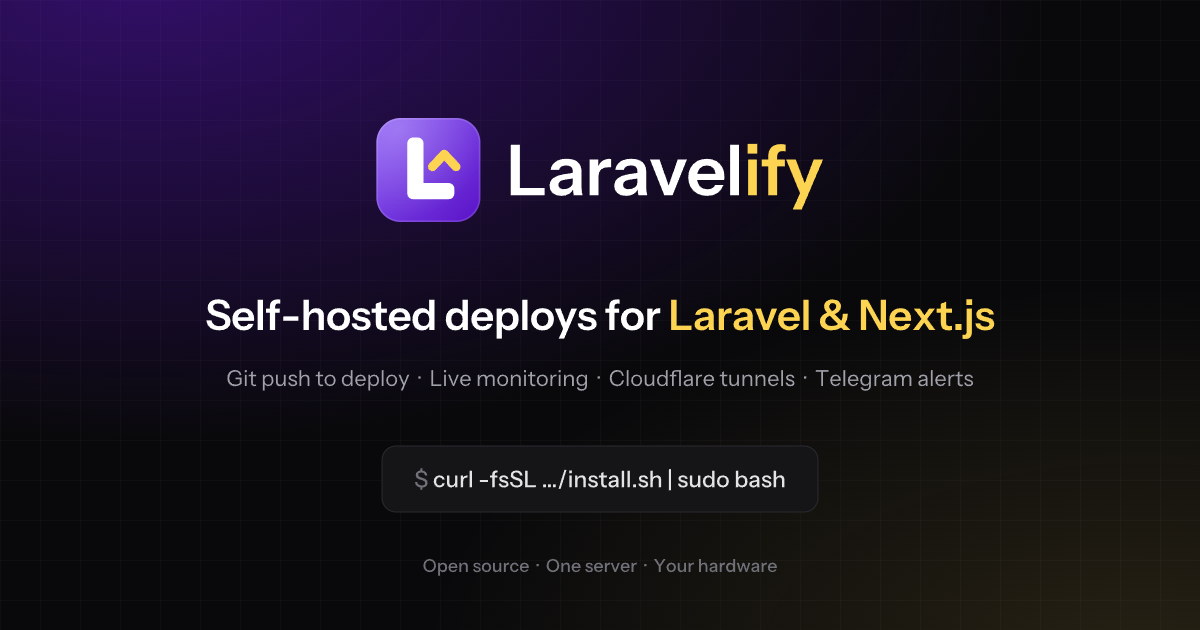
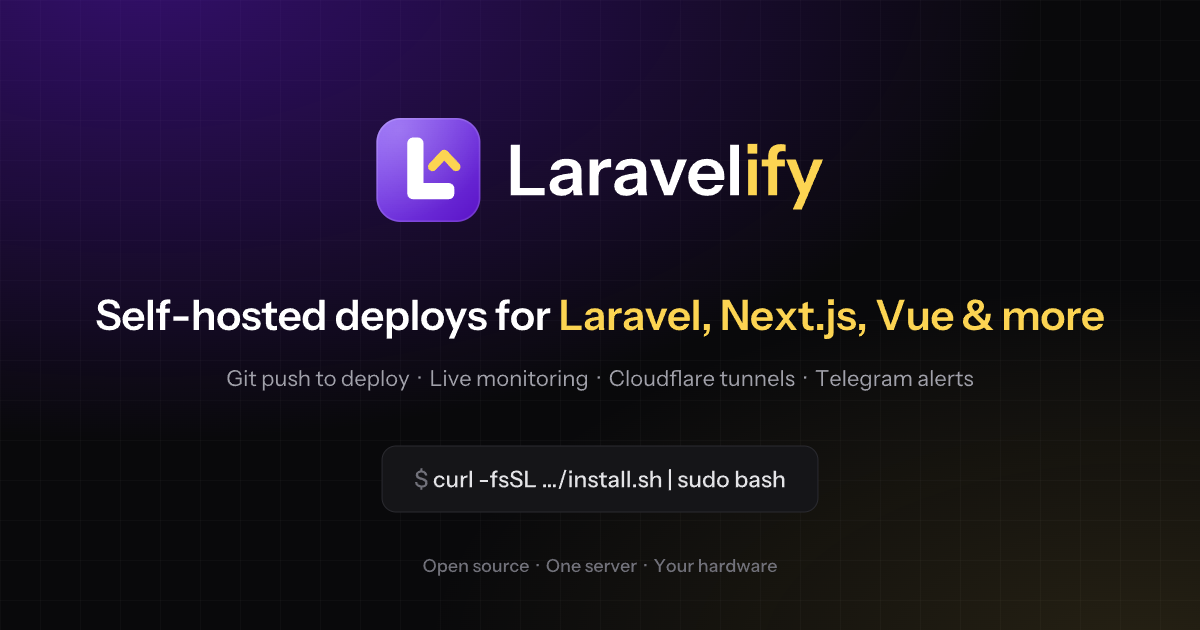
Landing: deploy backends, frontends, and full-stack apps

Changed region(s): [[0.0617, 0.4524, 0.925, 0.5429]]

diff --git a/src/components/hero.tsx b/src/components/hero.tsx
@@ -20,12 +20,12 @@ export function Hero() {
                 </a>
 
                 <h1 className="fade-up mx-auto mt-7 max-w-4xl text-[clamp(2.4rem,7vw,4.6rem)] leading-[1.02] font-bold tracking-[-0.045em] [animation-delay:60ms]">
-                    Deploy <span className="text-accent">Laravel</span> &amp; <span className="text-accent">Next.js</span>
+                    Deploy <span className="text-accent">Laravel</span>, <span className="text-accent">Next.js</span>, <span className="text-accent">Vue</span> &amp; more
                     <br className="hidden sm:block" /> to a server you own.
                 </h1>
 
                 <p className="fade-up mx-auto mt-6 max-w-2xl text-lg text-muted [animation-delay:120ms] sm:text-xl">
-                    Laravelify is a self-hosted control panel: push to GitHub and your site deploys, then watch live traffic, errors, attacks, and server
+                    Laravelify is a self-hosted control panel for backends, front ends, and full-stack apps: push to GitHub and your site deploys, then watch live traffic, errors, attacks, and server
                     load. No Docker, no per-seat pricing, no vendor lock-in.
                 </p>
 

diff --git a/src/components/features.tsx b/src/components/features.tsx
@@ -2,7 +2,7 @@ import { Icon, type IconName } from './icon';
 
 const features: { icon: IconName; title: string; text: string }[] = [
     { icon: 'rocket', title: 'Git push to deploy', text: 'GitHub App or token, webhooks, live build logs, one-click redeploys and cancel.' },
-    { icon: 'layers', title: 'Laravel and Next.js', text: 'PHP 8.0–8.5 with Supervisor workers and Reverb, or Node 20–24 standalone builds under PM2.' },
+    { icon: 'layers', title: 'Backend, frontend, full-stack', text: 'Laravel, PHP, Express, NestJS, React, Vue, Angular, Svelte, Astro, Next.js, Nuxt, and SvelteKit, each run the way it should.' },
     { icon: 'chart', title: 'Live monitoring', text: 'Requests, p95 response times, uptime, top routes, and a request feed that updates every 2 seconds.' },
     { icon: 'bug', title: 'Grouped issues', text: 'Laravel errors grouped by exception and line, with stack traces. Resolve, ignore, get told when they return.' },
     { icon: 'shield', title: 'Attack detection', text: 'SQL injection, XSS, path traversal, scanners, and attack tools flagged. Block an IP in one click.' },

diff --git a/src/config/site.ts b/src/config/site.ts
@@ -7,9 +7,9 @@ const repository = 'laravelify-cloud/laravelify';
 export const site = {
     name: 'Laravelify',
     url: 'https://laravelify.cloud',
-    tagline: 'Self-hosted deploys for Laravel & Next.js',
+    tagline: 'Self-hosted deploys for Laravel, Next.js, Vue & more',
     description:
-        'Laravelify is an open-source, self-hosted control panel that deploys Laravel and Next.js apps to your own Ubuntu server, with live monitoring, attack detection, and Telegram alerts.',
+        'Laravelify is an open-source, self-hosted control panel that deploys Laravel, PHP, Node.js, React, Vue, Angular, Next.js, Nuxt, and more to your own Ubuntu server, with live monitoring, attack detection, and Telegram alerts.',
 
     // Shown in the beta banner and the hero badge. Keep in step with the panel's VERSION file.
     version: '0.1.0-beta.1',

diff --git a/src/components/faq.tsx b/src/components/faq.tsx
@@ -15,7 +15,7 @@ const questions = [
     },
     {
         q: 'How is it different from Coolify?',
-        a: 'Laravelify is inspired by Coolify but focused on Laravel and Next.js, and it does not use Docker. Sites run on plain nginx, PHP-FPM, Supervisor, and PM2, which are lighter on small servers and familiar to Laravel developers.',
+        a: 'Laravelify is inspired by Coolify but built around PHP and Node.js, and it does not use Docker. Sites run on plain nginx, PHP-FPM, Supervisor, and PM2, which are lighter on small servers and familiar to Laravel developers.',
     },
     {
         q: 'Can I deploy more than one site?',

diff --git a/src/app/page.tsx b/src/app/page.tsx
@@ -8,7 +8,7 @@ import { Navbar } from '@/components/navbar';
 import { Sponsors } from '@/components/sponsors';
 import { WhySelfHost } from '@/components/why-self-host';
 
-const stack = ['Laravel', 'Next.js', 'nginx', 'PHP 8.0–8.5', 'MySQL 8.4', 'Redis', 'Node 20–24', 'PM2', 'Supervisor', 'Cloudflare', 'GitHub', 'Telegram'];
+const stack = ['Laravel', 'PHP', 'Node.js', 'Express', 'NestJS', 'React', 'Vue.js', 'Angular', 'Svelte', 'Astro', 'Next.js', 'Nuxt', 'nginx', 'PHP 8.0–8.5', 'MySQL 8.4', 'Redis', 'Node 20–24', 'PM2', 'Supervisor', 'Cloudflare', 'GitHub', 'Telegram'];
 
 export default function Home() {
     return (

diff --git a/src/app/layout.tsx b/src/app/layout.tsx
@@ -17,7 +17,7 @@ export const metadata: Metadata = {
         template: `%s · ${site.name}`,
     },
     description: site.description,
-    keywords: ['Laravel', 'Next.js', 'self-hosted', 'deployment', 'PaaS', 'Coolify alternative', 'server panel', 'open source'],
+    keywords: ['Laravel', 'Next.js', 'Vue', 'React', 'Angular', 'Nuxt', 'NestJS', 'Express', 'self-hosted', 'deployment', 'PaaS', 'Coolify alternative', 'server panel', 'open source'],
     alternates: { canonical: '/' },
     icons: {
         icon: [
